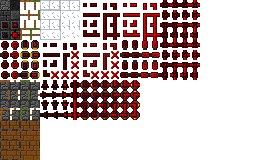
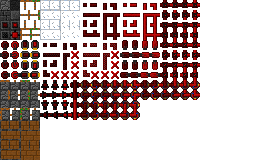
Add files via upload

Changed region(s): [[0.4857, 0.5, 0.7143, 0.625]]

diff --git a/Logic world/world.py b/Logic world/world.py
@@ -93,6 +93,7 @@ class World:
         self.number = number
         self.menu = "game"
         self.select_rotate = 0
+        self.select_inverted = 0
         self.buttons = pygame.sprite.Group()
         self.is_creative = is_creative
         self.can_break = 1
@@ -222,6 +223,19 @@ class World:
                     if "rotate" in get_block_params(self.hand[self.hand_index]):
                         self.select_rotate += 1
                         self.select_rotate %= 4
+            #инвертирование блока(ячейки памяти)
+            if self.input_manager.get_key("V"):
+                mousepos = pygame.mouse.get_pos()
+                mouse_world_pos = [mousepos[0] - self.pos[0], mousepos[1] - self.pos[1]]
+                blockpos = [int(mouse_world_pos[0] / self.block_scale), int(mouse_world_pos[1] / self.block_scale)]
+                if blockpos[0] >= 0 and blockpos[0] < self.w and blockpos[1] >= 0 and blockpos[1] < self.h and not xborder:
+                    if "inverted" in self.field[blockpos[0]][blockpos[1]].data:
+                        self.field[blockpos[0]][blockpos[1]].data["inverted"] = not self.field[blockpos[0]][blockpos[1]].data["inverted"]
+                    elif "inverted" in get_block_params(self.hand[self.hand_index]):
+                        self.select_inverted = not self.select_inverted
+                else:
+                    if "inverted" in get_block_params(self.hand[self.hand_index]):
+                        self.select_inverted = not self.select_inverted
             #пипетка
             if self.input_manager.get_key("Q"):
                 mousepos = pygame.mouse.get_pos()
@@ -402,6 +416,8 @@ class World:
                         sl = self.hand[self.hand_index]
                         if "rotate" in get_block_params(sl):
                             bl.data["rotate"] = self.select_rotate
+                        if "inverted" in get_block_params(sl):
+                            bl.data["inverted"] = self.select_inverted
                         bl.connect_with_armored_wire()
                         self.change_image()
                         if self.is_creative == 0:
@@ -456,7 +472,7 @@ class World:
                             st = 0
                     #
                     if self.hand[self.hand_index] != "air" and st:
-                        select_image = image_factory.get_block_image(self.hand[self.hand_index], [0, 0, 0, 0], {"activated" : 0, "rotate" : self.select_rotate, "activated1" : 0, "activated2" : 0}, size=self.block_scale)
+                        select_image = image_factory.get_block_image(self.hand[self.hand_index], [0, 0, 0, 0], {"activated" : 0, "rotate" : self.select_rotate, "activated1" : 0, "activated2" : 0, "inverted" : self.select_inverted}, size=self.block_scale)
                         select_image.convert_alpha()
                         select_image.set_alpha(90)
                         screen.blit(select_image, (blockpos[0] * self.block_scale + self.pos[0], blockpos[1] * self.block_scale + self.pos[1]))
@@ -467,7 +483,7 @@ class World:
             for i in range(len(self.hand) - 1):
                 pygame.draw.rect(screen, (20, 20, 20), (self.display_w - 70, i * 80 + 10, 60, 60))
                 pygame.draw.rect(screen, (50, 50, 50), (self.display_w - 65, i * 80 + 15, 50, 50))
-                img = image_factory.get_block_image(self.hand[i], [0, 0, 0, 0], {"activated" : 0, "rotate" : 0, "activated1" : 0, "activated2" : 0})
+                img = image_factory.get_block_image(self.hand[i], [0, 0, 0, 0], {"activated" : 0, "rotate" : 0, "activated1" : 0, "activated2" : 0, "inverted" : 0})
                 screen.blit(img, (self.display_w - 60, i * 80 + 20))
                 render_text(str(self.inventory[self.hand[i]]), (self.display_w - 10, i * 80 + 45), screen, center=(1, 0), font=pygame.font.Font("files/font.ttf", 16))
         elif self.menu == "select blocks":

diff --git a/Logic world/blocks/memory.py b/Logic world/blocks/memory.py
@@ -12,9 +12,14 @@ class Memory(Block):
         if not enr:
             s = self.data["activated"]
             #активация
-            if (self.data["activated1"] and self.data["activated2"] != self.data["activated"]):
-                self.logic_gate_active = 1
-                self.data["activated"] = self.data["activated2"]
+            if not self.data["inverted"]:
+                if (self.data["activated1"] and self.data["activated2"] != self.data["activated"]):
+                    self.logic_gate_active = 1
+                    self.data["activated"] = self.data["activated2"]
+            else:
+                if (self.data["activated2"] and self.data["activated1"] != self.data["activated"]):
+                    self.logic_gate_active = 1
+                    self.data["activated"] = self.data["activated1"]
             #
             self.active = self.data["activated"]
             if self.data["activated"] != s:
@@ -46,5 +51,8 @@ class Memory(Block):
         self.data["activated2"] = 0
 
     def get_image(self):
-        p = self.data["activated1"] + self.data["activated2"] * 2 + self.data["activated"] * 4
-        return (get_image(8 + p - 1 * (p > 2) - 1 * (p > 4), self.data["rotate"] + 8, size=self.world.block_scale))
+        if not self.data["inverted"]:
+            p = self.data["activated1"] + self.data["activated2"] * 2 + self.data["activated"] * 4
+        else:
+            p = self.data["activated2"] + self.data["activated1"] * 2 + self.data["activated"] * 4
+        return (get_image(8 + p - 1 * (p > 2) - 1 * (p > 4) + self.data["inverted"] * 6, self.data["rotate"] + 8, size=self.world.block_scale))

diff --git a/Logic world/image_factory.py b/Logic world/image_factory.py
@@ -81,7 +81,7 @@ def get_armored_wire_image(data, neighbours, size=40):
 
 def get_memory_image(data, size=40):
     p = data["activated1"] + data["activated2"] * 2 + data["activated"] * 4
-    return(get_image(8 + p - 1 * (p > 2) - 1 * (p > 4), data["rotate"] + 8, size=size))
+    return(get_image(8 + p - 1 * (p > 2) - 1 * (p > 4) + data["inverted"] * 6, data["rotate"] + 8, size=size))
 
 def get_sensor_image(data, size=40):
     return(get_image(2 + data["activated"], 4 + data["rotate"], size=size))
